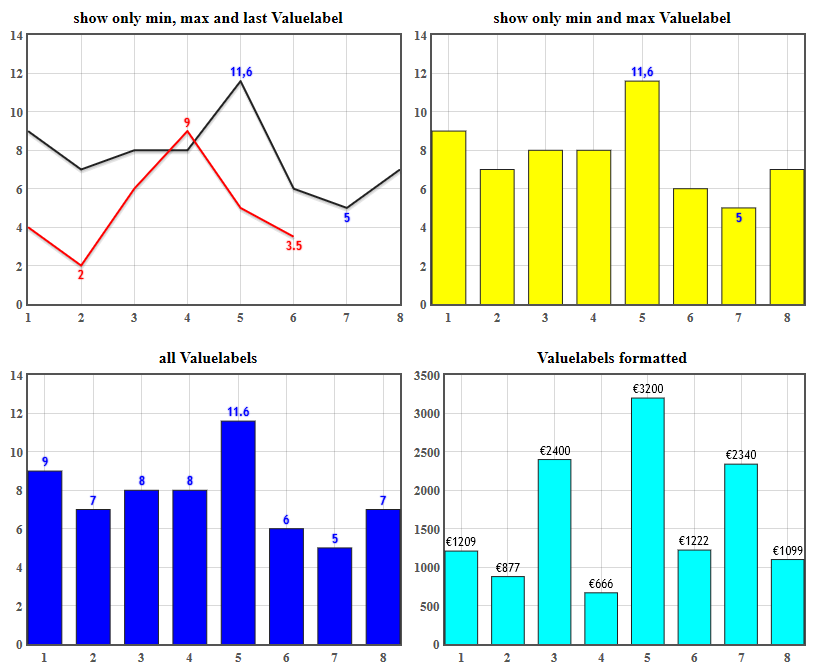
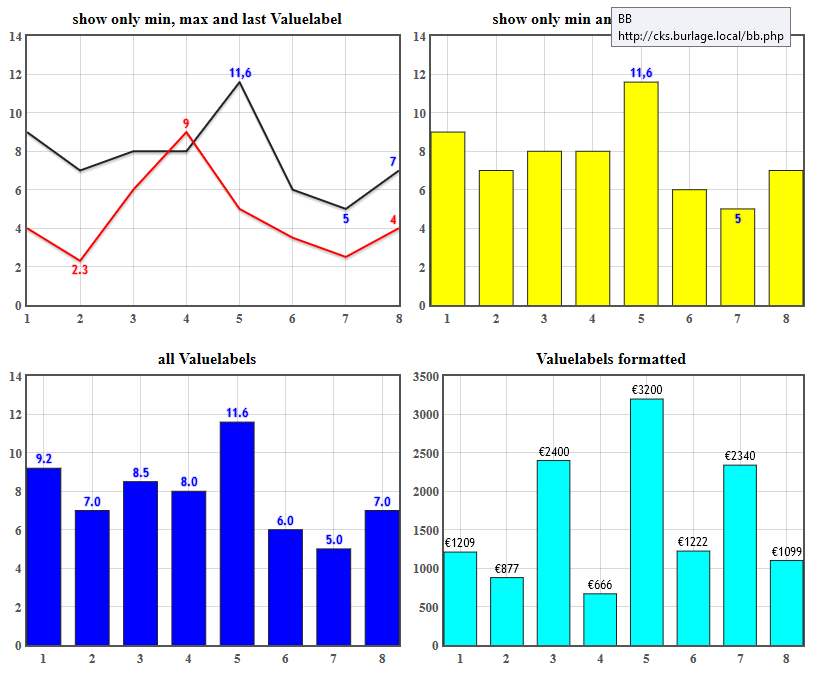
Version 1.3.2

diff --git a/example.html b/example.html
@@ -1,6 +1,6 @@
 <html>
 <head>
-  <title>Test flot-valuelabels</title>
+  <title>Examples flot-valuelabels</title>
   <script src="https://ajax.googleapis.com/ajax/libs/jquery/1.11.1/jquery.min.js" type="text/javascript"></script>
   <script src="https://raw.githubusercontent.com/flot/flot/master/jquery.flot.js" type="text/javascript"></script>
   <script src="https://raw.githubusercontent.com/winne27/flot-valuelabels/master/jquery.flot.valuelabels.js" type="text/javascript"></script>
@@ -19,6 +19,7 @@
                show: true,
                showMaxValue: true,
                showMinValue: true,
+               showLastValue: true,
                yoffset: 1,
                yoffsetMin: 20,
                align: 'center',
@@ -28,7 +29,7 @@
             }
          },
          {
-            data: [[1,4],[2,2],[3,6],[4,9],[5,5],[6,3.5]],
+            data: [[1,4],[2,2.3],[3,6],[4,9],[5,5],[6,3.5],[7,2.5],[8,4]],
             color: '#FF0000',
             valueLabels:
             {
@@ -37,6 +38,7 @@
                showMaxValue: true,
                showLastValue: true,
                yoffsetMax: 2,
+               yoffsetLast: 2,
                yoffset: 19,
                align: 'center',
                font: "9pt 'Trebuchet MS'",
@@ -47,28 +49,11 @@
 
          options =
          {
-            title: 'dies und das',
-            series:
-            {
-               lines:
-               {
-                   show: true
-               }
-            },
-            yaxis:
-            {
-               min: 0,
-               max: 14,
-               tickSize: 2,
-               tickDecimals: 0
-            }
+            series: {lines: {show: true}},
+            yaxis: {min: 0, max: 14, tickSize: 2, tickDecimals: 0}
          };
-         $.plot
-         (
-            $('#labelTest1'),
-            data,
-            options
-         );
+
+         $.plot($('#labelTest1'),data,options);
 
          // --------------------------------------------------------------------------------------
          // second plot example - show only min and max Valuelabel
@@ -93,41 +78,19 @@
 
          options =
          {
-            series:
-            {
-               bars:
-               {
-                   show: true
-               }
-            },
-            bars:
-            {
-                align: "center",
-                barWidth: 0.7,
-                lineWidth: 1,
-                fillColor: '#ffff00'
-            },
-            yaxis:
-            {
-               min: 0,
-               max: 14,
-               tickSize: 2,
-               tickDecimals: 0
-            }
+            series: {bars: {show: true}},
+            bars:   {align: "center", barWidth: 0.7, lineWidth: 1, fillColor: '#ffff00'},
+            yaxis:  {min: 0, max: 14, tickSize: 2, tickDecimals: 0}
          };
-         $.plot
-         (
-            $('#labelTest2'),
-            data,
-            options
-         );
+
+         $.plot($('#labelTest2'), data, options);
 
          // --------------------------------------------------------------------------------------
          // third plot example - all Valuelabels
          // --------------------------------------------------------------------------------------
          data =
          [{
-            data: [[1,9],[2,7],[3,8],[4,8],[5,11.6],[6,6],[7,5],[8,7]],
+            data: [[1,9.2],[2,7],[3,8.5],[4,8.0],[5,11.6],[6,6],[7,5],[8,7]],
             color: '#222222'
          }];
 
@@ -135,40 +98,31 @@
          {
             series:
             {
-               bars:
-               {
-                   show: true
-               },
+               bars: {show: true},
                valueLabels:
                {
                   show: true,
+                  labelFormatter: function(v)
+                  {
+                     return (+v).toFixed(1);
+                  },
                   yoffset: 1,
                   align: 'center',
                   font: "9pt 'Trebuchet MS'",
                   fontcolor: 'blue'
                }
             },
-            bars:
-            {
-                align: "center",
-                barWidth: 0.7,
-                lineWidth: 1,
-                fillColor: '#0000FF'
-            },
-            yaxis:
-            {
-               min: 0,
-               max: 14,
-               tickSize: 2,
-               tickDecimals: 0
-            }
+            bars:  {align: "center", barWidth: 0.7, lineWidth: 1, fillColor: '#0000FF'},
+            yaxis: {min: 0, max: 14, tickSize: 2, tickDecimals: 0}
          };
+
          $.plot
          (
             $('#labelTest3'),
             data,
             options
          );
+
          // --------------------------------------------------------------------------------------
          // fourd plot example - Valuelabels formatted
          // --------------------------------------------------------------------------------------
@@ -182,10 +136,7 @@
          {
             series:
             {
-               bars:
-               {
-                   show: true
-               },
+               bars: {show: true},
                valueLabels:
                {
                   show: true,
@@ -198,25 +149,11 @@
                   }
                }
             },
-            bars:
-            {
-                align: "center",
-                barWidth: 0.7,
-                lineWidth: 1,
-                fillColor: '#00FFFF'
-            },
-            yaxis:
-            {
-               min: 0,
-               tickDecimals: 0
-            }
+            bars:  {align: "center", barWidth: 0.7, lineWidth: 1, fillColor: '#00FFFF'},
+            yaxis: {min: 0, tickDecimals: 0}
          };
-         $.plot
-         (
-            $('#labelTest4'),
-            data,
-            options
-         );
+
+         $.plot($('#labelTest4'), data, options);
       }
   </script>
 </head>

diff --git a/jquery.flot.valuelabels.js b/jquery.flot.valuelabels.js
@@ -170,7 +170,12 @@
                         // The same happens with the x axis
                         if (xx >= plot.width() + plot.getPlotOffset().left)
                         {
-                           x_pos = plot.width();
+                           x_pos = plot.width() + plot.getPlotOffset().left + xdelta - 3;
+                           var actAlign = 'right';
+                        }
+                        else
+                        {
+                           var actAlign = align;
                         }
                         if (font)
                         {
@@ -187,7 +192,7 @@
                         {
                            ctx.shadowColor = fontcolor;
                         }
-                        ctx.textAlign = align;
+                        ctx.textAlign = actAlign;
                         ctx.fillText(val, x_pos, y_pos);
                      }
                      else
@@ -212,7 +217,7 @@
       init: init,
       options: options,
       name: 'valueLabels',
-      version: '1.3.1'
+      version: '1.3.2'
    });
 }
 )(jQuery);
